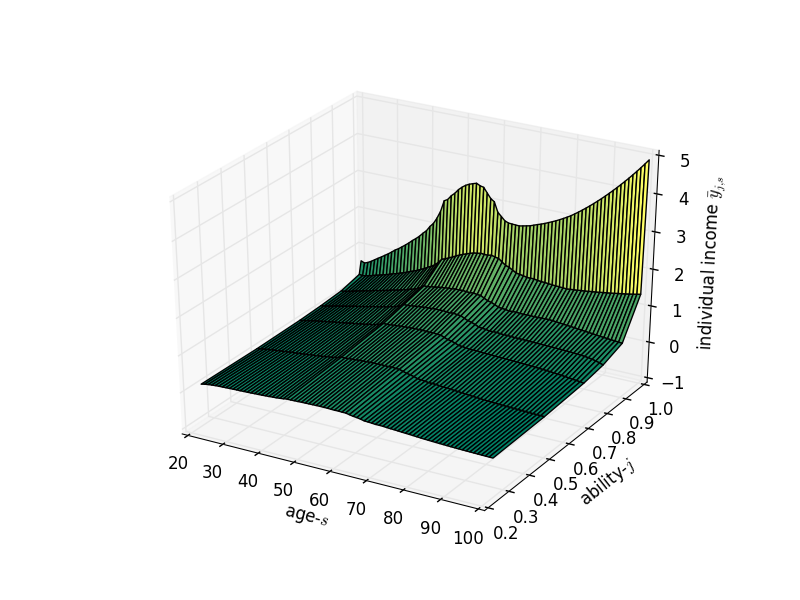
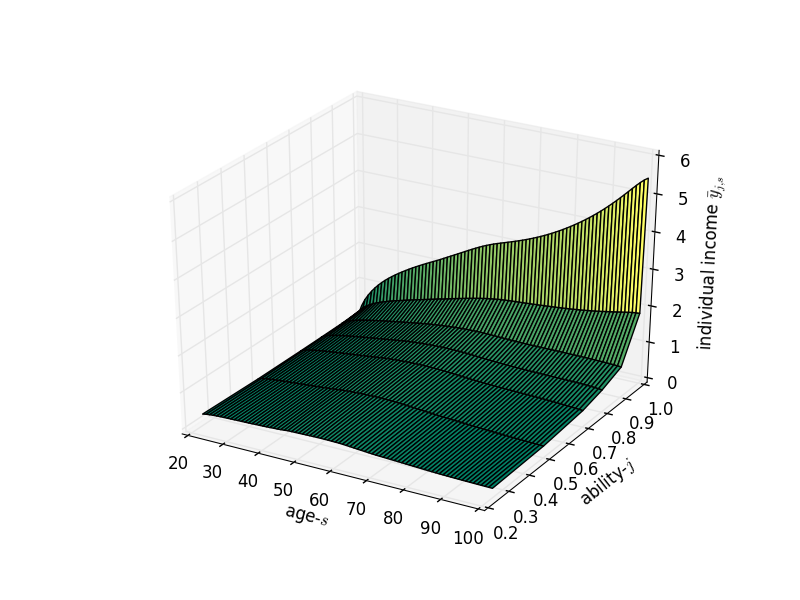
change y

diff --git a/Python/OUTPUT_income_tax/SS_graphs.py b/Python/OUTPUT_income_tax/SS_graphs.py
@@ -38,17 +38,8 @@ savings[-1, :] = BQ_init
 beq_ut = chi_b.reshape(S, J) * (mort_rate.reshape(S, 1)) * (savings**(1-sigma) -1)/(1-sigma)
 utility = ((cssmat_init ** (1-sigma) - 1)/(1- sigma)) + chi_n.reshape(S, 1) * (b_ellipse * (1-(Lssmat_init/ltilde)**upsilon) ** (1/upsilon) + k_ellipse)
 utility += beq_ut 
-# beta_string = np.ones(S) * beta
-# for i in xrange(S):
-#     beta_string[i] = beta_string[i] ** i
-# utility *= beta_string.reshape(S, 1)
-# cum_morts = np.zeros(S)
-# for i in xrange(S):
-#     cum_morts[i] = np.prod(1-mort_rate[:i])
-# utility *= cum_morts.reshape(S, 1)
 utility_init = utility.sum(0)
 
-income_init = rss * Kssmat2 + wss * e * Lssmat + rss * Bss / bin_weights -Tss
 
 Css = (cssmat * omega_SS).sum()
 # print Css + delta * Kss
@@ -57,11 +48,11 @@ Css = (cssmat * omega_SS).sum()
 # print Css
 # print (utility_init * omega_SS).sum()
 Kssmat3 = np.array(list(Kssmat) + list(BQ.reshape(1, J)))
-yss = cssmat + delta * Kssmat3
-print np.var(np.log(Kssmat3 * omega_SS))
-print (Kssmat3[:, 5]).sum() / (Kssmat3[:, 0]).sum()
-print (Kssmat3[:, 5:]*omega_SS[:, 5:]).sum() / (Kssmat3 * omega_SS).sum()
-print (Kssmat3[:, -1]*omega_SS[:, -1]).sum() / (Kssmat3 * omega_SS).sum()
+income_init = cssmat + delta * Kssmat3
+print np.var(np.log(cssmat * omega_SS))
+print (cssmat[:, :5]*omega_SS[:, :5]).sum() / (cssmat[:, 5:]*omega_SS[:, 5:]).sum()
+print (cssmat[:, 5:]*omega_SS[:, 5:]).sum() / (cssmat * omega_SS).sum()
+print (cssmat[:, -1]*omega_SS[:, -1]).sum() / (cssmat * omega_SS).sum()
 
 
 '''
@@ -225,17 +216,8 @@ savings[-1, :] = BQ
 beq_ut = chi_b.reshape(S, J) * (mort_rate.reshape(S, 1)) * (savings**(1-sigma)-1)/(1-sigma)
 utility = ((cssmat ** (1-sigma) - 1)/(1- sigma)) + chi_n.reshape(S, 1) * (b_ellipse * (1-(Lssmat/ltilde)**upsilon) ** (1/upsilon) + k_ellipse)
 utility += beq_ut 
-# beta_string = np.ones(S) * beta
-# for i in xrange(S):
-#     beta_string[i] = beta_string[i] ** i
-# utility *= beta_string.reshape(S, 1)
-# cum_morts = np.zeros(S)
-# for i in xrange(S):
-#     cum_morts[i] = np.prod(1-mort_rate[:i])
-# utility *= cum_morts.reshape(S, 1)
 utility = utility.sum(0)
 
-income = rss * Kssmat2 + wss * e * Lssmat + (rss) * Bss / bin_weights -Tss
 
 Css = (cssmat * omega_SS).sum()
 # print Css + delta * Kss
@@ -245,11 +227,11 @@ Css = (cssmat * omega_SS).sum()
 # print (utility * omega_SS).sum()
 
 Kssmat3 = np.array(list(Kssmat) + list(BQ.reshape(1, J)))
-yss = cssmat + delta * Kssmat3
-print np.var(np.log(Kssmat3 * omega_SS))
-print (Kssmat3[:, 5]).sum() / (Kssmat3[:, 0]).sum()
-print (Kssmat3[:, 5:]*omega_SS[:, 5:]).sum() / (Kssmat3 * omega_SS).sum()
-print (Kssmat3[:, -1]*omega_SS[:, -1]).sum() / (Kssmat3 * omega_SS).sum()
+income = cssmat + delta * Kssmat3
+print np.var(np.log(cssmat * omega_SS))
+print (cssmat[:, :5]*omega_SS[:, :5]).sum() / (cssmat[:, 5:]*omega_SS[:, 5:]).sum()
+print (cssmat[:, 5:]*omega_SS[:, 5:]).sum() / (cssmat * omega_SS).sum()
+print (cssmat[:, -1]*omega_SS[:, -1]).sum() / (cssmat * omega_SS).sum()
 
 
 plt.figure()

diff --git a/Python/OUTPUT_wealth_tax/SS_graphs.py b/Python/OUTPUT_wealth_tax/SS_graphs.py
@@ -38,17 +38,8 @@ savings[-1, :] = BQ_init
 beq_ut = chi_b.reshape(S, J) * (mort_rate.reshape(S, 1)) * (savings**(1-sigma) -1)/(1-sigma)
 utility = ((cssmat_init ** (1-sigma) - 1)/(1- sigma)) + chi_n.reshape(S, 1) * (b_ellipse * (1-(Lssmat_init/ltilde)**upsilon) ** (1/upsilon) + k_ellipse)
 utility += beq_ut 
-# beta_string = np.ones(S) * beta
-# for i in xrange(S):
-#     beta_string[i] = beta_string[i] ** i
-# utility *= beta_string.reshape(S, 1)
-# cum_morts = np.zeros(S)
-# for i in xrange(S):
-#     cum_morts[i] = np.prod(1-mort_rate[:i])
-# utility *= cum_morts.reshape(S, 1)
 utility_init = utility.sum(0)
 
-income_init = rss * Kssmat2 + wss * e * Lssmat + rss * Bss / bin_weights -Tss
 
 Css = (cssmat * omega_SS).sum()
 # print Css + delta * Kss
@@ -57,11 +48,11 @@ Css = (cssmat * omega_SS).sum()
 # print Css
 # print (utility_init * omega_SS).sum()
 Kssmat3 = np.array(list(Kssmat) + list(BQ.reshape(1, J)))
-yss = cssmat + delta * Kssmat3
-print np.var(np.log(Kssmat3 * omega_SS))
-print (Kssmat3[:, 5]).sum() / (Kssmat3[:, 0]).sum()
-print (Kssmat3[:, 5:]*omega_SS[:, 5:]).sum() / (Kssmat3 * omega_SS).sum()
-print (Kssmat3[:, -1]*omega_SS[:, -1]).sum() / (Kssmat3 * omega_SS).sum()
+income_init = cssmat + delta * Kssmat3
+print np.var(np.log(cssmat * omega_SS))
+print (cssmat[:, :5]*omega_SS[:, :5]).sum() / (cssmat[:, 5:]*omega_SS[:, 5:]).sum()
+print (cssmat[:, 5:]*omega_SS[:, 5:]).sum() / (cssmat * omega_SS).sum()
+print (cssmat[:, -1]*omega_SS[:, -1]).sum() / (cssmat * omega_SS).sum()
 
 
 '''
@@ -225,17 +216,8 @@ savings[-1, :] = BQ
 beq_ut = chi_b.reshape(S, J) * (mort_rate.reshape(S, 1)) * (savings**(1-sigma)-1)/(1-sigma)
 utility = ((cssmat ** (1-sigma) - 1)/(1- sigma)) + chi_n.reshape(S, 1) * (b_ellipse * (1-(Lssmat/ltilde)**upsilon) ** (1/upsilon) + k_ellipse)
 utility += beq_ut 
-# beta_string = np.ones(S) * beta
-# for i in xrange(S):
-#     beta_string[i] = beta_string[i] ** i
-# utility *= beta_string.reshape(S, 1)
-# cum_morts = np.zeros(S)
-# for i in xrange(S):
-#     cum_morts[i] = np.prod(1-mort_rate[:i])
-# utility *= cum_morts.reshape(S, 1)
 utility = utility.sum(0)
 
-income = rss * Kssmat2 + wss * e * Lssmat + (rss) * Bss / bin_weights -Tss
 
 Css = (cssmat * omega_SS).sum()
 # print Css + delta * Kss
@@ -245,11 +227,11 @@ Css = (cssmat * omega_SS).sum()
 # print (utility * omega_SS).sum()
 
 Kssmat3 = np.array(list(Kssmat) + list(BQ.reshape(1, J)))
-yss = cssmat + delta * Kssmat3
-print np.var(np.log(Kssmat3 * omega_SS))
-print (Kssmat3[:, 5]).sum() / (Kssmat3[:, 0]).sum()
-print (Kssmat3[:, 5:]*omega_SS[:, 5:]).sum() / (Kssmat3 * omega_SS).sum()
-print (Kssmat3[:, -1]*omega_SS[:, -1]).sum() / (Kssmat3 * omega_SS).sum()
+income = cssmat + delta * Kssmat3
+print np.var(np.log(cssmat * omega_SS))
+print (cssmat[:, :5]*omega_SS[:, :5]).sum() / (cssmat[:, 5:]*omega_SS[:, 5:]).sum()
+print (cssmat[:, 5:]*omega_SS[:, 5:]).sum() / (cssmat * omega_SS).sum()
+print (cssmat[:, -1]*omega_SS[:, -1]).sum() / (cssmat * omega_SS).sum()
 
 
 plt.figure()

diff --git a/Python/OUTPUT/SS_graphs.py b/Python/OUTPUT/SS_graphs.py
@@ -38,17 +38,8 @@ savings[-1, :] = BQ_init
 beq_ut = chi_b.reshape(S, J) * (mort_rate.reshape(S, 1)) * (savings**(1-sigma) -1)/(1-sigma)
 utility = ((cssmat_init ** (1-sigma) - 1)/(1- sigma)) + chi_n.reshape(S, 1) * (b_ellipse * (1-(Lssmat_init/ltilde)**upsilon) ** (1/upsilon) + k_ellipse)
 utility += beq_ut 
-# beta_string = np.ones(S) * beta
-# for i in xrange(S):
-#     beta_string[i] = beta_string[i] ** i
-# utility *= beta_string.reshape(S, 1)
-# cum_morts = np.zeros(S)
-# for i in xrange(S):
-#     cum_morts[i] = np.prod(1-mort_rate[:i])
-# utility *= cum_morts.reshape(S, 1)
 utility_init = utility.sum(0)
 
-income_init = rss * Kssmat2 + wss * e * Lssmat + rss * Bss / bin_weights -Tss
 
 Css = (cssmat * omega_SS).sum()
 # print Css + delta * Kss
@@ -57,7 +48,7 @@ Css = (cssmat * omega_SS).sum()
 # print Css
 # print (utility_init * omega_SS).sum()
 Kssmat3 = np.array(list(Kssmat) + list(BQ.reshape(1, J)))
-yss = cssmat + delta * Kssmat3
+income_init = cssmat + delta * Kssmat3
 print np.var(np.log(cssmat * omega_SS))
 print (cssmat[:, :5]*omega_SS[:, :5]).sum() / (cssmat[:, 5:]*omega_SS[:, 5:]).sum()
 print (cssmat[:, 5:]*omega_SS[:, 5:]).sum() / (cssmat * omega_SS).sum()
@@ -225,17 +216,8 @@ savings[-1, :] = BQ
 beq_ut = chi_b.reshape(S, J) * (mort_rate.reshape(S, 1)) * (savings**(1-sigma)-1)/(1-sigma)
 utility = ((cssmat ** (1-sigma) - 1)/(1- sigma)) + chi_n.reshape(S, 1) * (b_ellipse * (1-(Lssmat/ltilde)**upsilon) ** (1/upsilon) + k_ellipse)
 utility += beq_ut 
-# beta_string = np.ones(S) * beta
-# for i in xrange(S):
-#     beta_string[i] = beta_string[i] ** i
-# utility *= beta_string.reshape(S, 1)
-# cum_morts = np.zeros(S)
-# for i in xrange(S):
-#     cum_morts[i] = np.prod(1-mort_rate[:i])
-# utility *= cum_morts.reshape(S, 1)
 utility = utility.sum(0)
 
-income = rss * Kssmat2 + wss * e * Lssmat + (rss) * Bss / bin_weights -Tss
 
 Css = (cssmat * omega_SS).sum()
 # print Css + delta * Kss
@@ -245,7 +227,7 @@ Css = (cssmat * omega_SS).sum()
 # print (utility * omega_SS).sum()
 
 Kssmat3 = np.array(list(Kssmat) + list(BQ.reshape(1, J)))
-yss = cssmat + delta * Kssmat3
+income = cssmat + delta * Kssmat3
 print np.var(np.log(cssmat * omega_SS))
 print (cssmat[:, :5]*omega_SS[:, :5]).sum() / (cssmat[:, 5:]*omega_SS[:, 5:]).sum()
 print (cssmat[:, 5:]*omega_SS[:, 5:]).sum() / (cssmat * omega_SS).sum()
